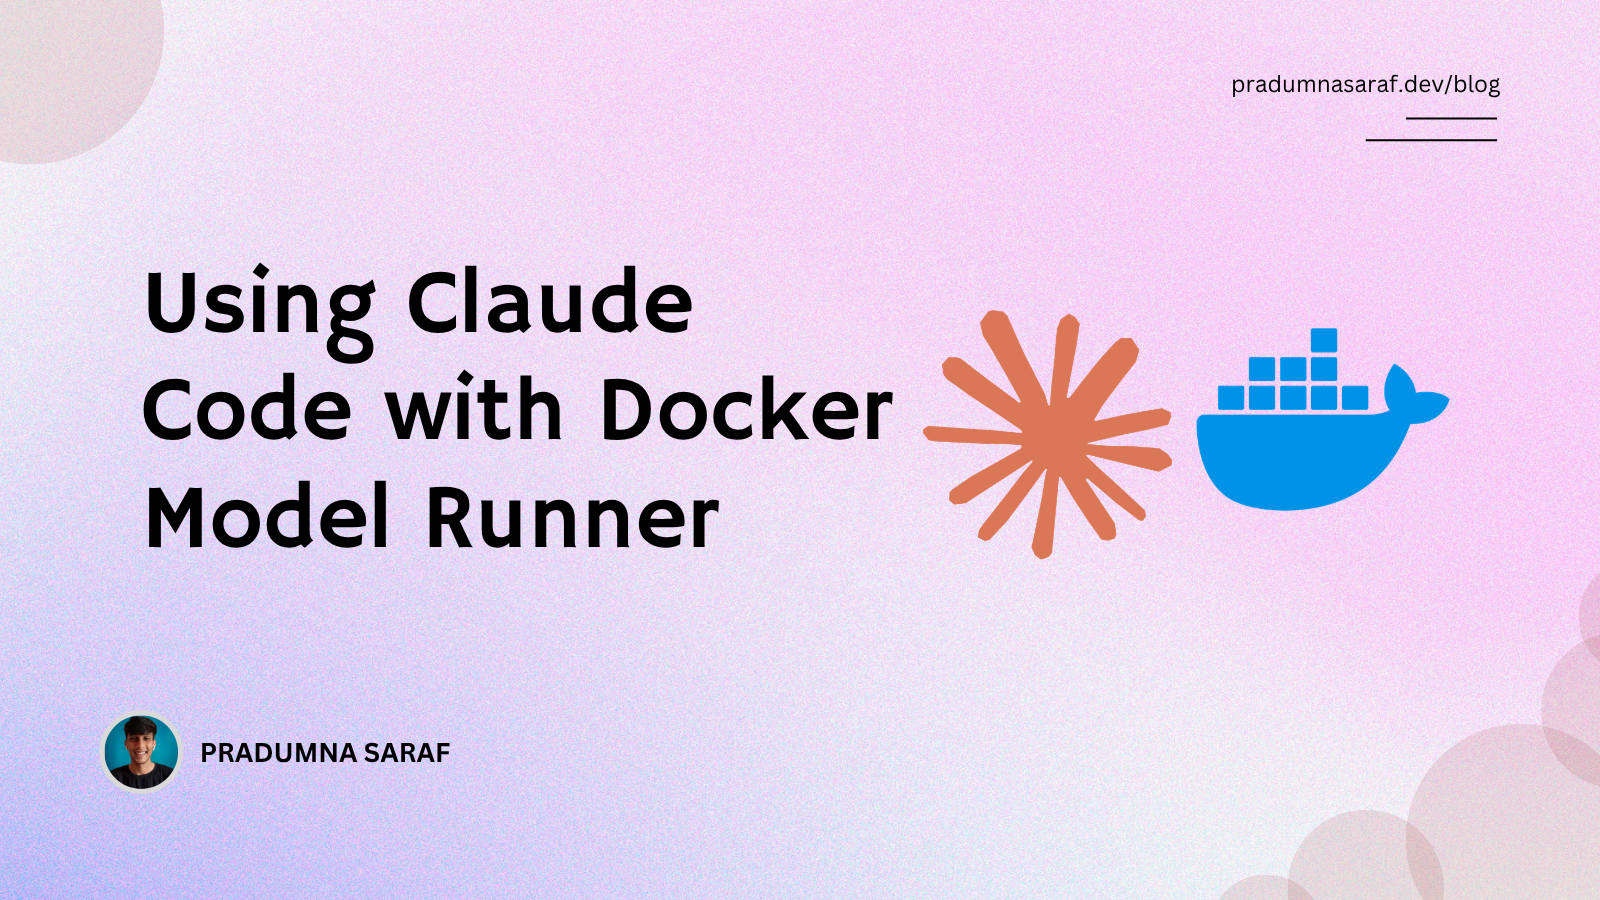
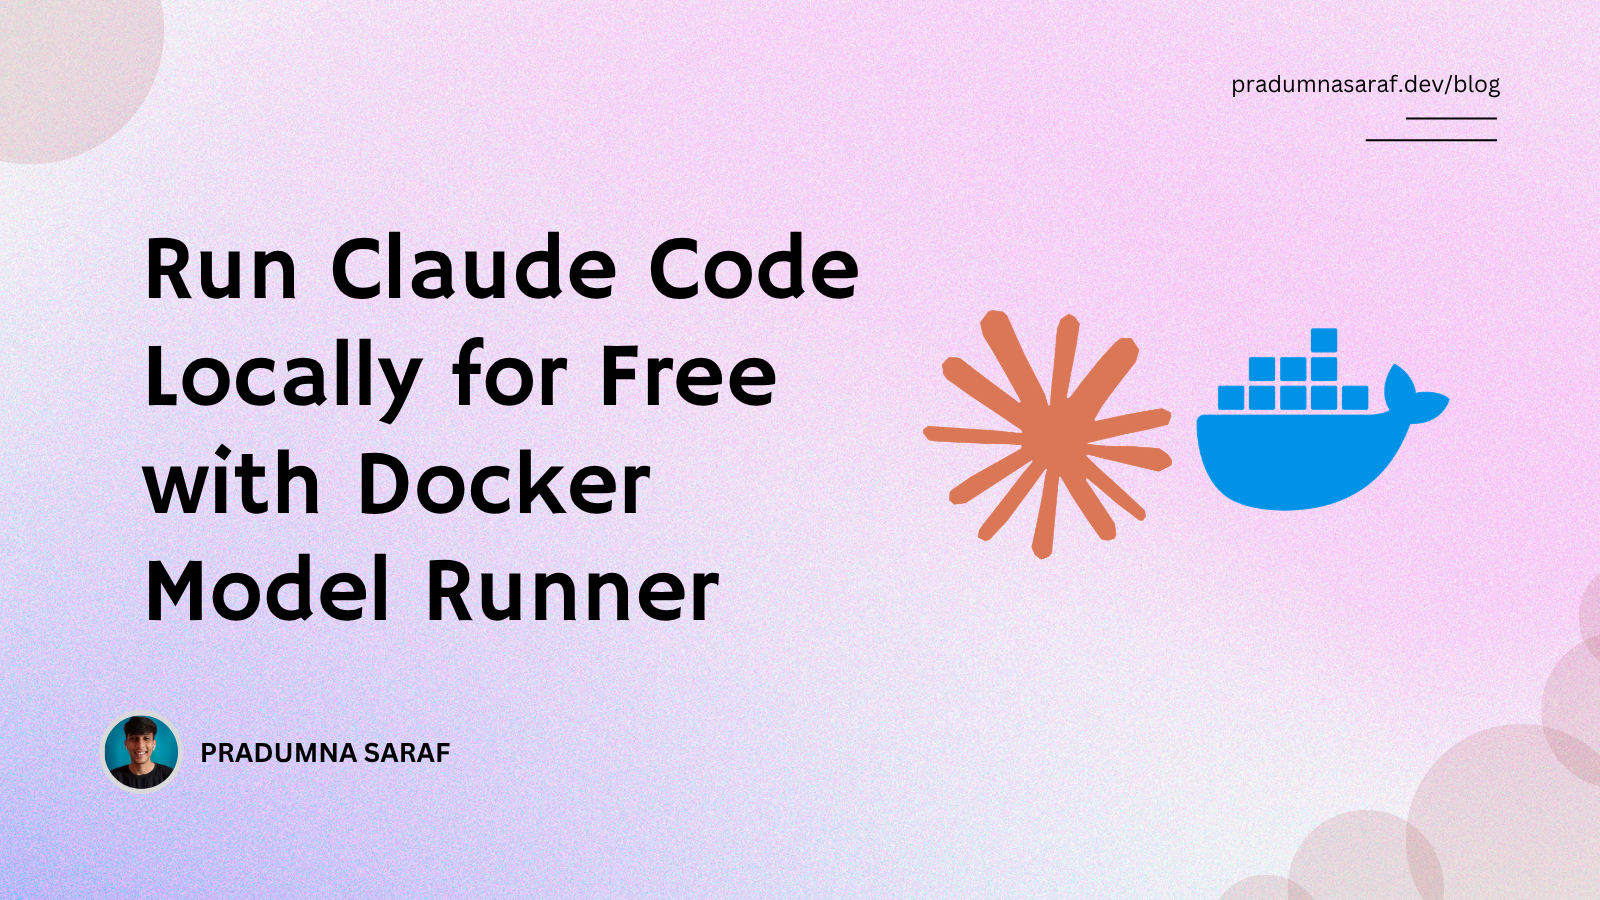
docs: update blog post link and thumbnail

Changed region(s): [[0.0625, 0.2489, 0.5625, 0.7156]]

diff --git a/README.md b/README.md
@@ -12,8 +12,8 @@ He is passionate about Open Source and has mentored hundreds of people to break 
 
 ### Latest Blog Post
 <p align="left">
-<a href="https://dev.to/pradumnasaraf/using-claude-code-with-docker-model-runner-36eo" title="Using Claude Code with Docker Model Runner
+<a href="https://dev.to/pradumnasaraf/run-claude-code-locally-for-free-with-docker-model-runner-3o27" title="Using Claude Code with Docker Model Runner
 "><img src="./assets/claude-code-dmr.png" alt="Using Claude Code with Docker Model Runner" width="250px" align="left"/></a>
-<a href="https://dev.to/pradumnasaraf/using-claude-code-with-docker-model-runner-36eo" title="Using Claude Code with Docker Model Runner"><strong>Using Claude Code with Docker Model Runner</strong></a>
+<a href="https://dev.to/pradumnasaraf/run-claude-code-locally-for-free-with-docker-model-runner-3o27" title="Using Claude Code with Docker Model Runner"><strong>Using Claude Code with Docker Model Runner</strong></a>
 <div><strong>Published on: 8th May 2026</strong>
-<br/>We know that the Claude Code is phenomenal for development and code. But we can easily run out of tokens, and it becomes quickly expensive as your project becomes more complex. What if we can keep all the good parts about the Claude Code, but use the local models instead...<a href="https://dev.to/pradumnasaraf/using-claude-code-with-docker-model-runner-36eo">read mode</a> </p> <br/>
+<br/>We know that the Claude Code is phenomenal for development and code. But we can easily run out of tokens, and it becomes quickly expensive as your project becomes more complex. What if we can keep all the good parts about the Claude Code, but use the local models instead...<a href="https://dev.to/pradumnasaraf/run-claude-code-locally-for-free-with-docker-model-runner-3o27">read mode</a> </p> <br/>
